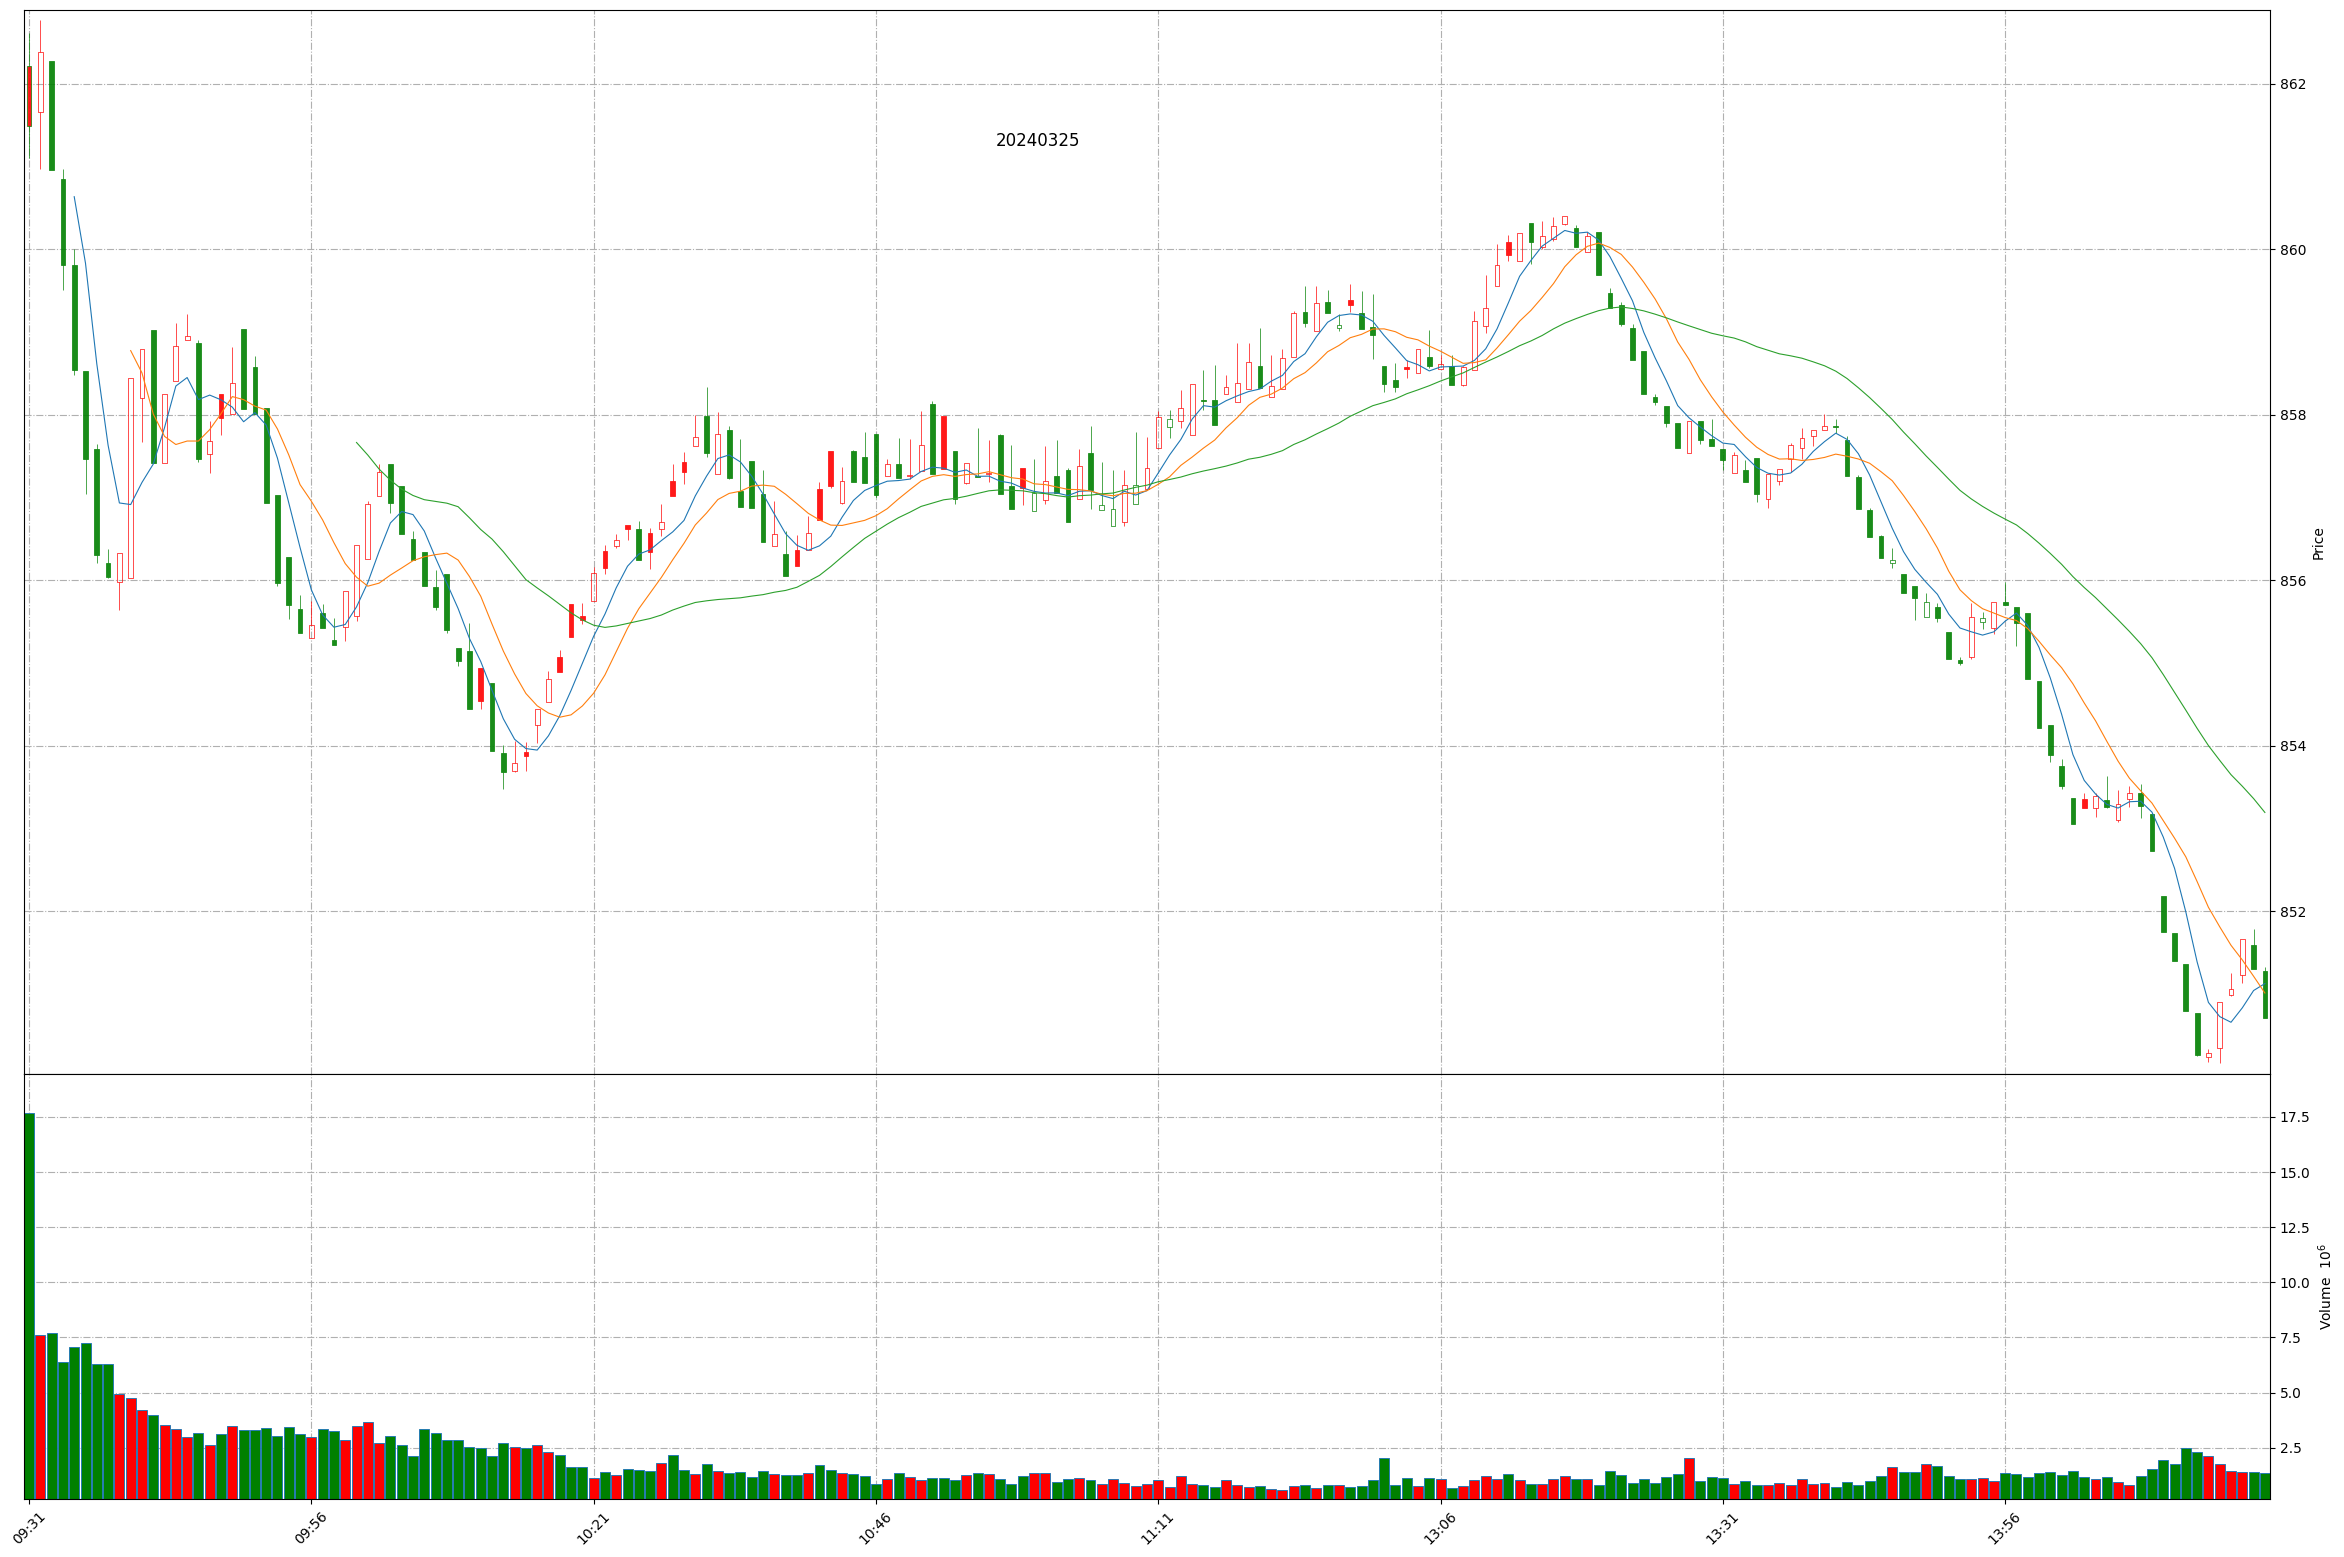
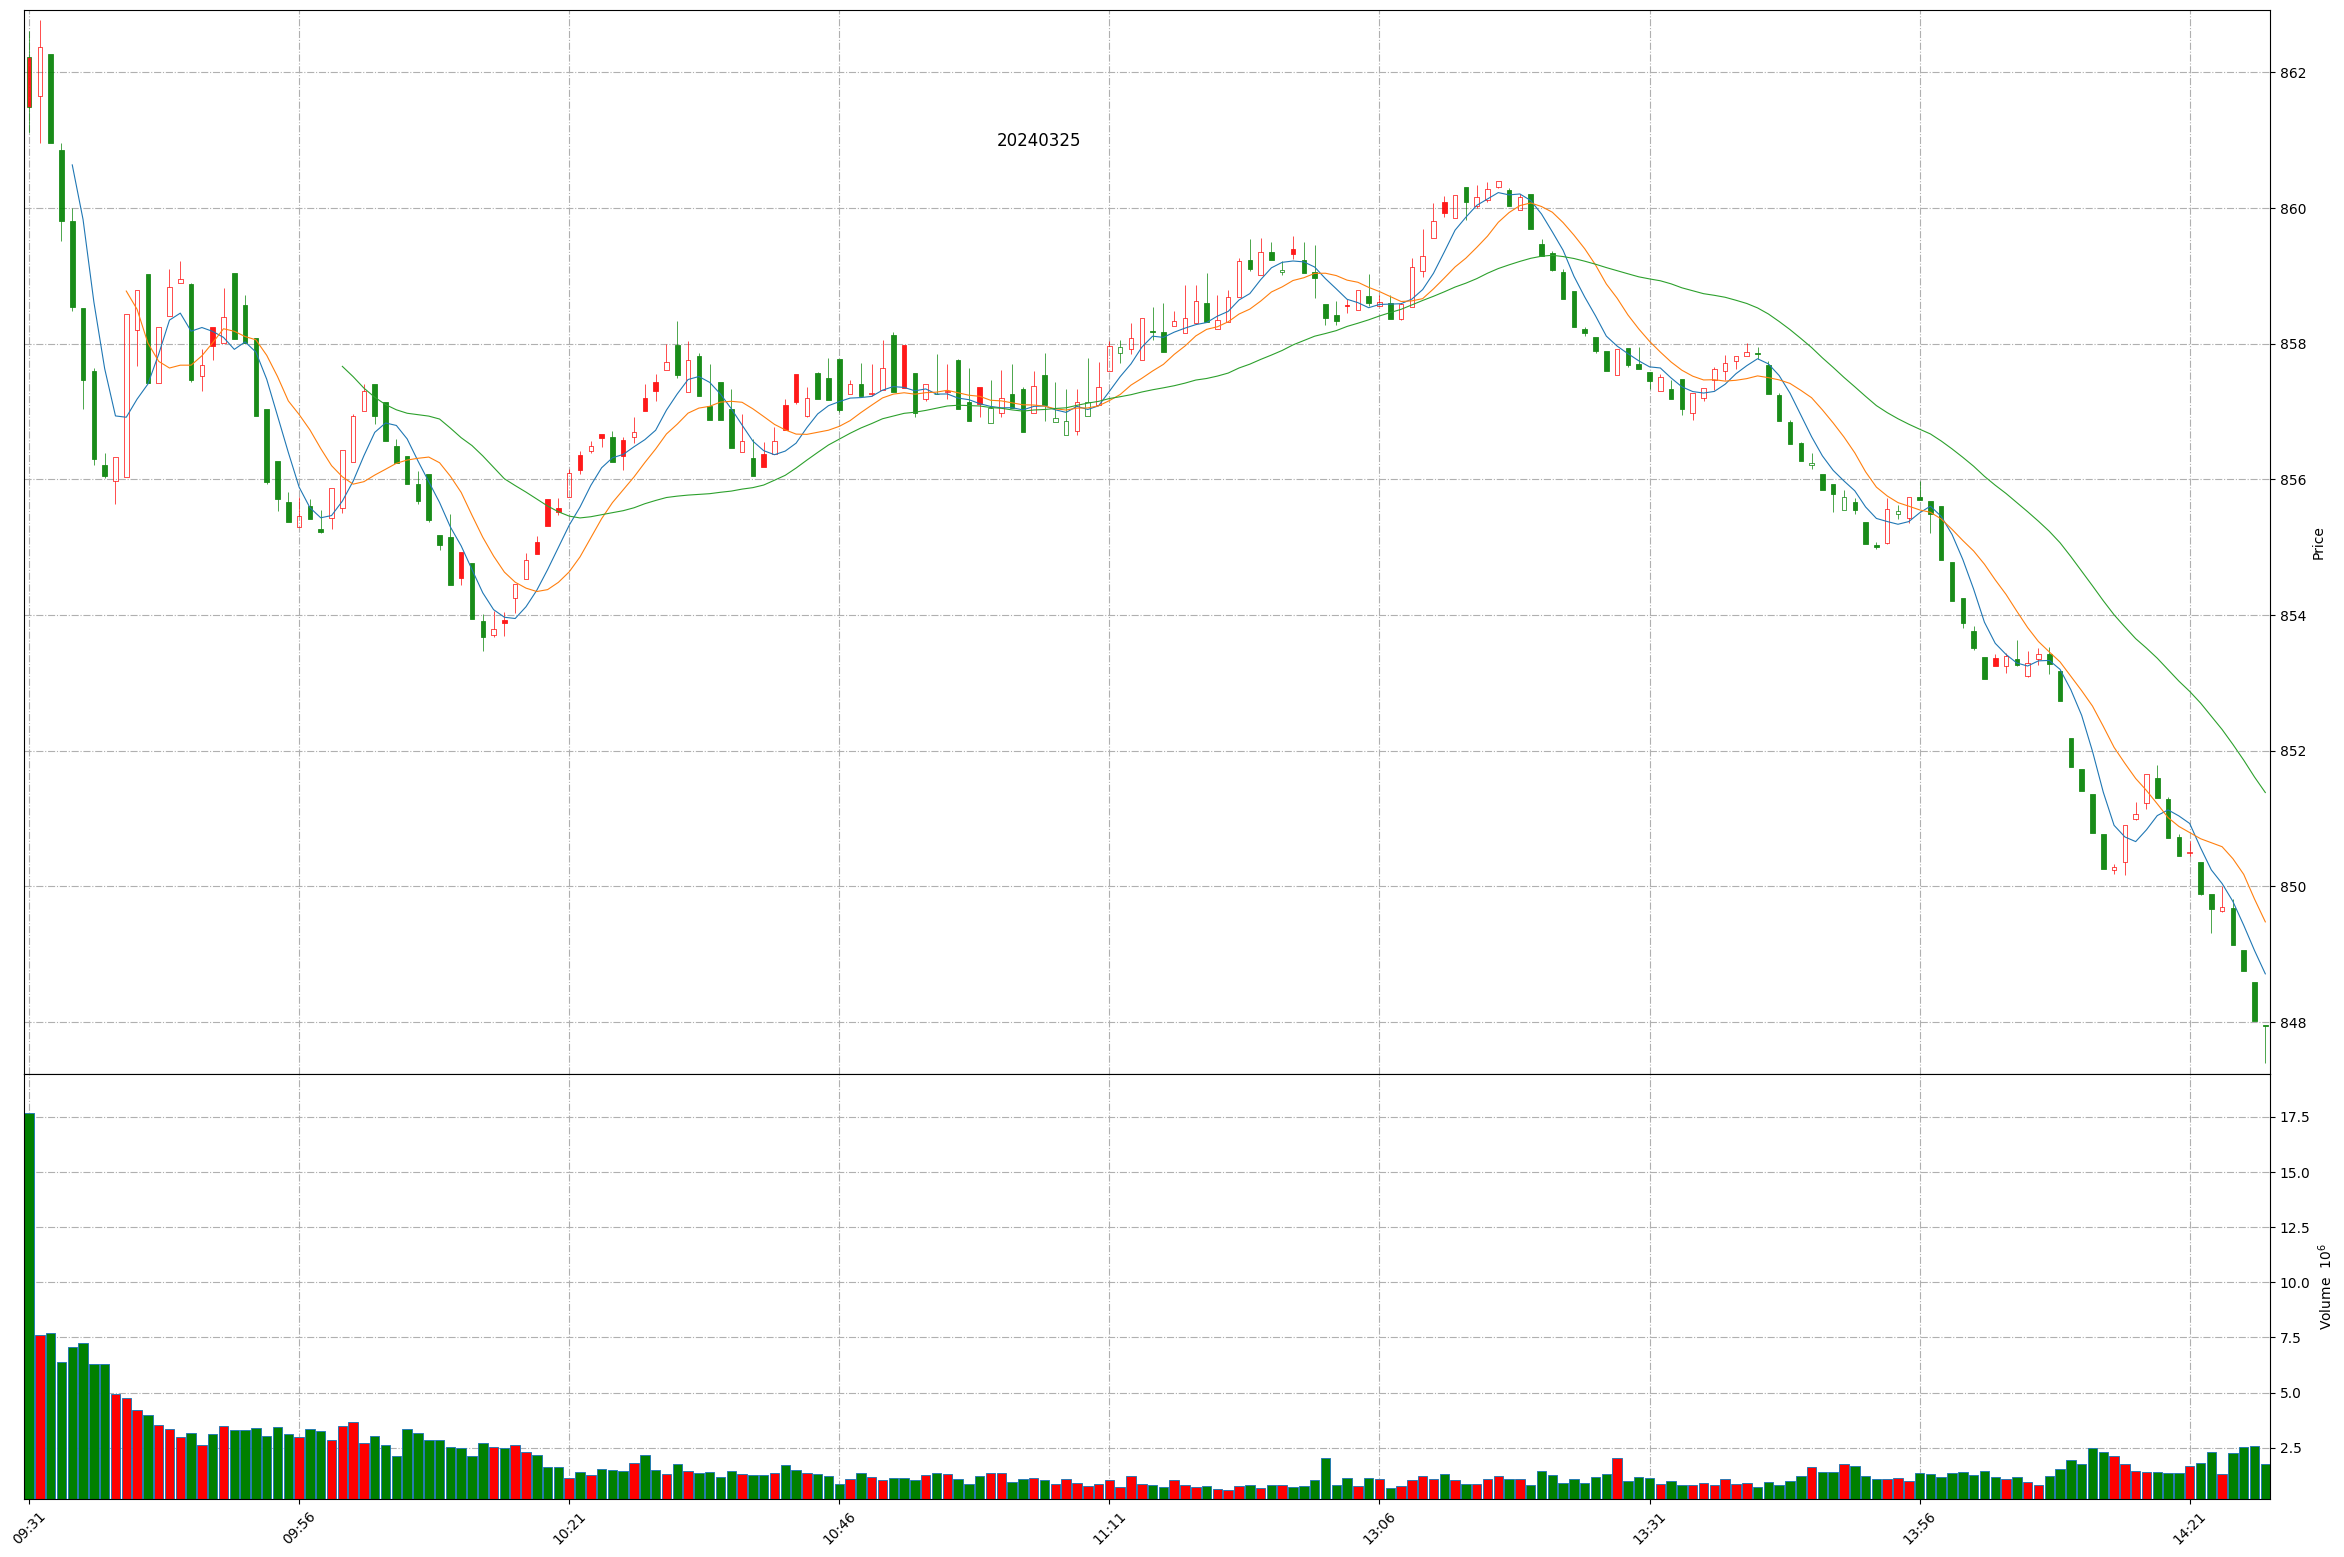
Github action update at 2024-03-25 14:28:14.

diff --git a/README.md b/README.md
@@ -1,11 +1,11 @@
 
 # Daily-A-share-market-quotes 每日 A 股指数（5min 更新）- 20240325
 
-### 上证指数 20240325 14:19
+### 上证指数 20240325 14:28
 ![](./fig/2024/3/20240325-sh000001.png)
 
-### 深证成指 20240325 14:19
+### 深证成指 20240325 14:28
 ![](./fig/2024/3/20240325-sz399001.png)
 
-### 北证50 20240325 14:19
+### 北证50 20240325 14:28
 ![](./fig/2024/3/20240325-bj899050.png)
